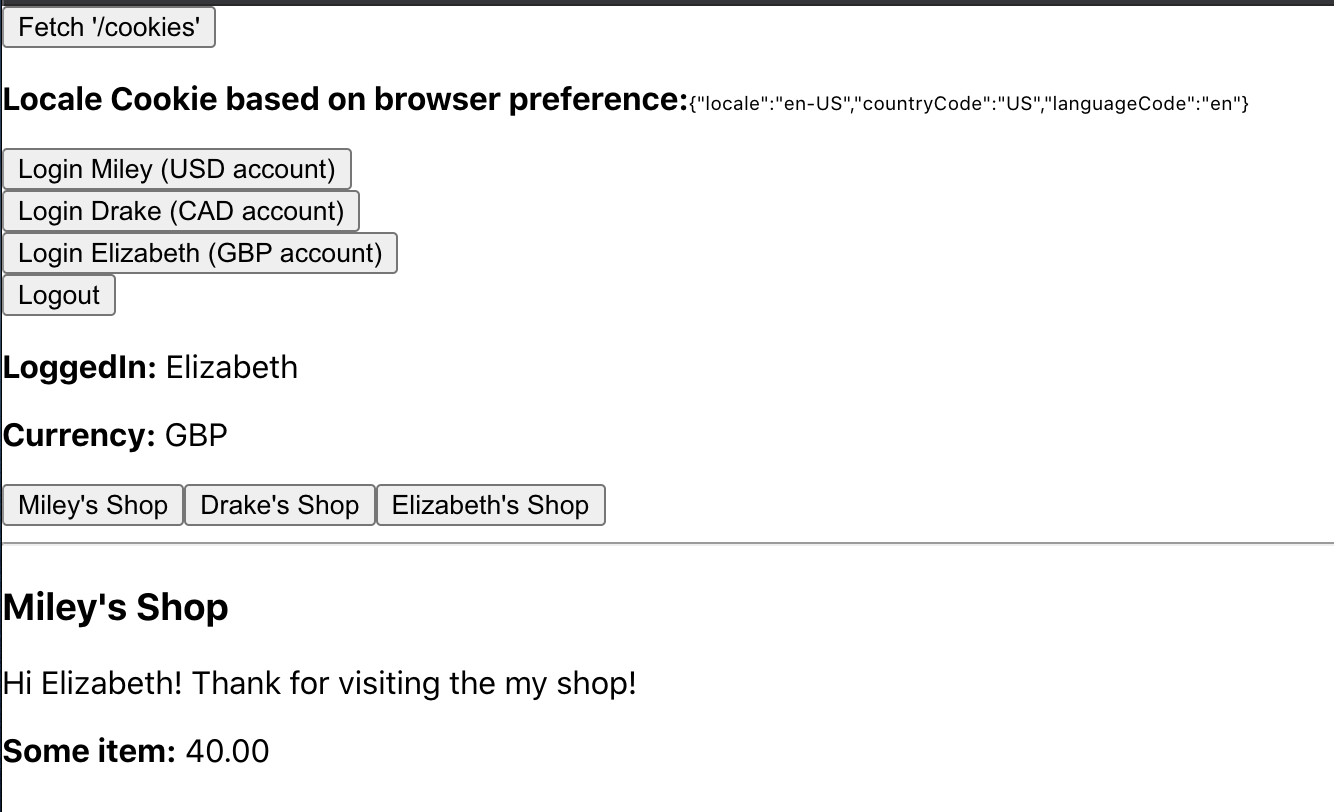
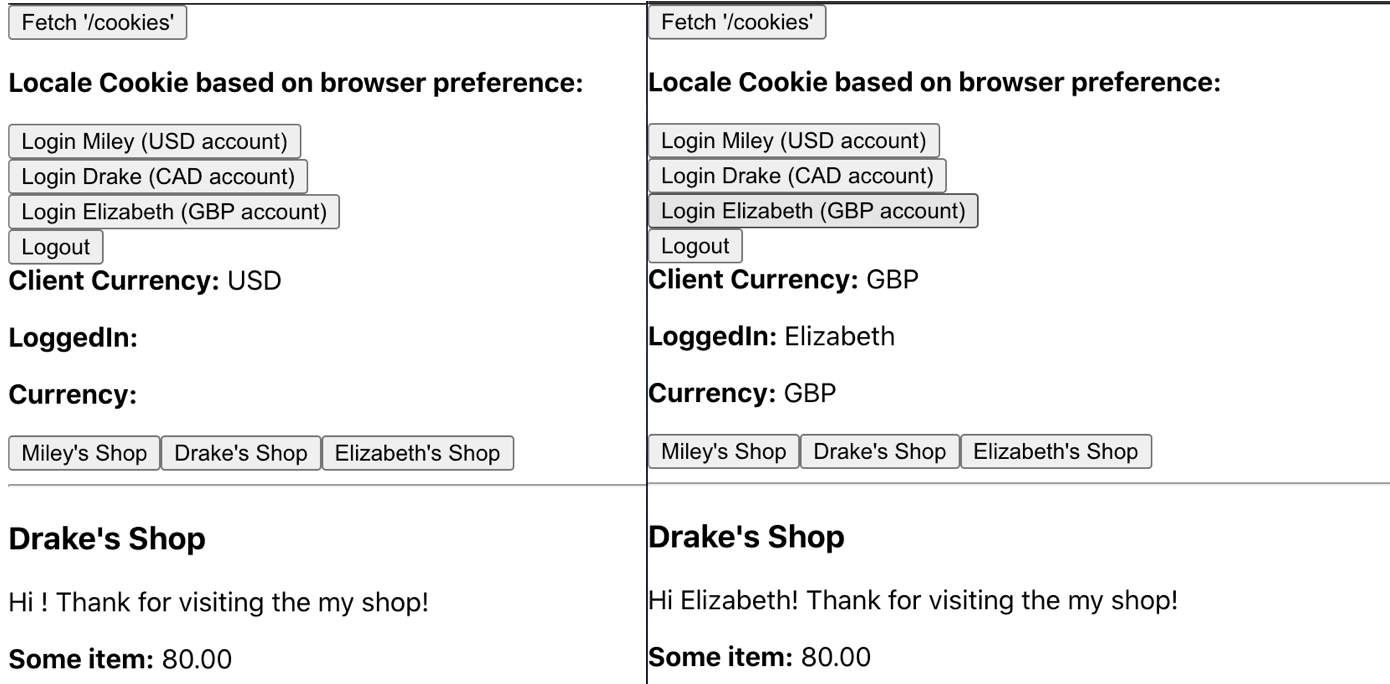
detect client cookie

diff --git a/frontend-react/src/App.js b/frontend-react/src/App.js
@@ -28,19 +28,7 @@ function App() {
       );
     }
   };
-  const fetchCurrency = () => {
-    if (!user?.currency && !parsedCookies().currency) {
-      fetch('/hint_currency')
-        .then((res) => {
-          if (res.status === 204) return null;
-          return res.text();
-        })
-        .then((text) => {
-          const locale = JSON.parse(text);
-          chooseCurrency(locale);
-        });
-    }
-  };
+
   const fetchUser = () => {
     return fetch('/users/current')
       .then((res) => {
@@ -53,14 +41,16 @@ function App() {
       });
   };
 
+  const clientCurrency = () => {
+    const cookies = parsedCookies();
+    return user ? user?.currency : cookies.currency;
+  };
+
   useEffect(() => {
-    // fetchCurrency(); //you could use this request <---, or if you have a request sent on every page load like fetching for the current user, use the method below
     fetchUser().then((usr) => {
-      const cookies = parsedCookies();
-      if (!usr?.currency || !cookies.currency) chooseCurrency(JSON.parse(cookies.locale));
-      else if (usr?.currency) document.cookie.currency = usr.currency;
+      if (!clientCurrency()) chooseCurrency(JSON.parse(parsedCookies().locale));
     });
-  }, []);
+  }, [clientCurrency]);
 
   const sendRequest = () => {
     fetch('/cookies', { credentials: 'same-origin' })
@@ -137,6 +127,7 @@ function App() {
         <button onClick={logout}>Logout</button>
       </div>
       <div id="account">
+        <b>Client Currency:</b> {clientCurrency()}
         <p>
           <b>LoggedIn:</b> {user?.username}
         </p>

diff --git a/README.md b/README.md
@@ -8,6 +8,7 @@ Right now this project:
 - Can (insecurely) login/logout aka create a user on the session.
 - Browse different users shops.
 - Set the currency cookie based on `accept-language` header or ask the user their preference if not clear from `accept-language`.
+- detects currency by user settings or by cookie
 - More to come...
 
 <img src = "imgs/current.png" width = "250"/>
@@ -176,3 +177,26 @@ Notes for later:
 `npm i country-data`
 
 [Country Data](https://www.npmjs.com/package/country-data)
+
+## Setting cookies across domains when in production
+
+[Creating a JavaScript cookie on a domain and reading it across sub domains](https://stackoverflow.com/questions/5671451/creating-a-javascript-cookie-on-a-domain-and-reading-it-across-sub-domains)
+
+> ```html
+> <script type="text/javascript">
+>   var cookieName = 'HelloWorld';
+>   var cookieValue = 'HelloWorld';
+>   var myDate = new Date();
+>   myDate.setMonth(myDate.getMonth() + 12);
+>   document.cookie =
+>     cookieName + '=' + cookieValue + ';expires=' + myDate + ';domain=.example.com;path=/';
+> </script>
+> ```
+
+People in the comments said this was difficult to do when texting on localhost:
+
+> Browsers treat localhost cookies a bit differently than other cookies. Or rather, they treat all cookies in a way that makes working with localhost difficult. For instance, see stackoverflow.com/questions/1134290/…. I suggest editing your hosts file and aliasing something like myserver.local to 127.0.0.1. Then you can use that to access your local server (and when setting cookies), and hopefully everything should work.
+
+Also:
+
+> I would suggest is using the global encodeURI() & decodeURI() methods for the cookie name & value to handle any conversion that would need to take place. i.e. document.cookie = encodeURI(cookieName) +"=" + encodeURI(cookieValue).
